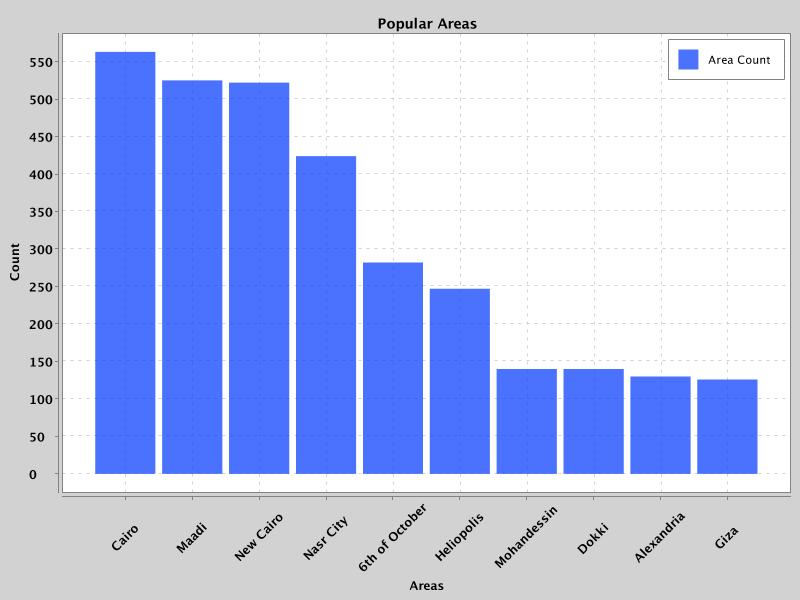
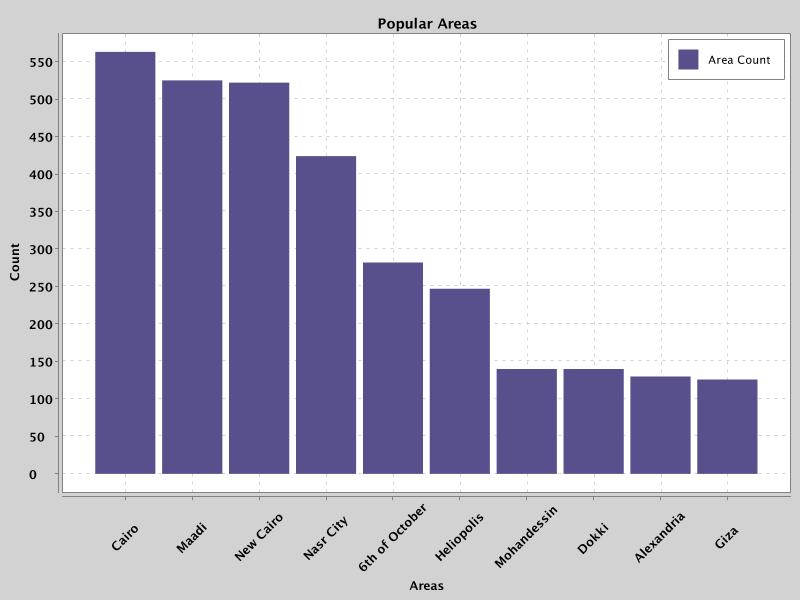
✅ Final touches for better user experience

Changed region(s): [[0.0938, 0.06, 0.9688, 0.81], [0.8438, 0.06, 0.875, 0.12]]

diff --git a/src/main/resources/templates/popular-areas.html b/src/main/resources/templates/popular-areas.html
@@ -18,25 +18,26 @@
 <body>
 
 <div class="limiter">
-    <div class="py-3 row">
-        <div class="h6 col-md-5 ">
+    <div class="py-3">
+        <div class="h6  ">
             <a href="/" class="text-dark text-left p-3 m-3">
                 <img src="http://localhost:8080/images/arrow-left-solid.svg" width="15" class="mr-2"/>
                 Go back
             </a>
         </div>
-        <div class="col-md-7">
+        <div class="text-center">
             <p class="text-dark h5"> Popular areas</p>
+            <small class="text-muted">Task #8</small>
         </div>
     </div>
 
     <div class="container-table100 text-center">
         <div class="wrap-table100">
             <div class="table100">
-                <table>
+                <table style="width: 400px !important; text-align: center">
                     <thead>
                     <tr class="table100-head">
-                        <th class="column9">Attribute</th>
+                        <th class="column9" style="width: 180px !important;">Attribute</th>
                         <th class="column1">Count</th>
                     </tr>
                     </thead>

diff --git a/src/main/resources/templates/jobs-barchart.html b/src/main/resources/templates/jobs-barchart.html
@@ -18,22 +18,24 @@
 <body>
 
 <div class="limiter">
-    <div class="py-3 row">
-        <div class="h6 col-md-5 ">
+    <div class="py-3">
+        <div class="h6 ">
             <a href="/" class="text-dark text-left p-3 m-3">
                 <img src="http://localhost:8080/images/arrow-left-solid.svg" width="15" class="mr-2"/>
                 Go back
             </a>
         </div>
-        <div class="col-md-7">
+        <div class="text-center">
             <p class="text-dark h5"> Jobs barchart</p>
+            <small class="text-muted">Task #7</small>
+
         </div>
     </div>
 
     <div class="container-table100 text-center">
         <div class="wrap-table100">
             <div class="table100">
-               <img src="http://localhost:8080/images/popularJobsBar.jpg"/>
+               <img src="http://localhost:8080/images/popularJobsBar.jpg" class="img-fluid shadow-sm"/>
             </div>
         </div>
     </div>

diff --git a/src/main/resources/templates/areas-barchart.html b/src/main/resources/templates/areas-barchart.html
@@ -18,15 +18,17 @@
 <body>
 
 <div class="limiter">
-    <div class="py-3 row">
-        <div class="h6 col-md-5 ">
+    <div class="py-3 ">
+        <div class="h6  ">
             <a href="/" class="text-dark text-left p-3 m-3">
                 <img src="http://localhost:8080/images/arrow-left-solid.svg" width="15" class="mr-2"/>
                 Go back
             </a>
         </div>
-        <div class="col-md-7">
+        <div class="text-center">
             <p class="text-dark h5"> Areas barchart</p>
+            <small class="text-muted">Task #9</small>
+
         </div>
     </div>
 

diff --git a/src/main/resources/templates/summary.html b/src/main/resources/templates/summary.html
@@ -31,7 +31,7 @@
         </div>
     </div>
 
-    <div class="container-table100 text-center">
+    <div class="container-table100 text-center" style="align-items: unset !important;">
         <div class="wrap-table100">
             <div class="table100">
                 <table id="summary-table">

diff --git a/src/main/java/com/example/wuzzufdataanalysis/controllers/RowEntityController.java b/src/main/java/com/example/wuzzufdataanalysis/controllers/RowEntityController.java
@@ -79,7 +79,9 @@ public class RowEntityController {
 
     @RequestMapping("/popular-areas")
     public String getPopularAreas(Model model){
-        model.addAttribute("rows", areasEntityRepository.findAll());
+        Pageable limit = PageRequest.of(0,30);
+
+        model.addAttribute("rows", areasEntityRepository.findAll(limit));
         return "popular-areas";
     }
 
@@ -98,8 +100,11 @@ public class RowEntityController {
         CategoryChart chart = new CategoryChartBuilder().width(800).height(600).title("Popular Job Titles").xAxisTitle("Titles").yAxisTitle("Count").build();
 
         // Customize Chart
+        chart.getStyler().setSeriesColors(new Color[]{new Color(0,63,92), new Color(24,43,124)});
+
         chart.getStyler().setLegendPosition(Styler.LegendPosition.InsideNE);
         chart.getStyler().setXAxisLabelRotation(45);
+
 
         List<String> titlesList = new ArrayList<String>();
         final int[] i = {0};
@@ -133,6 +138,8 @@ public class RowEntityController {
         // Customize Chart
         chart.getStyler().setLegendPosition(Styler.LegendPosition.InsideNE);
         chart.getStyler().setXAxisLabelRotation(45);
+        chart.getStyler().setSeriesColors(new Color[]{new Color(88,80,141), new Color(24,43,124)});
+
 
         List<String> titlesList = new ArrayList<String>();
         final int[] i = {0};

diff --git a/src/main/java/com/example/wuzzufdataanalysis/repositories/AreasEntityRepository.java b/src/main/java/com/example/wuzzufdataanalysis/repositories/AreasEntityRepository.java
@@ -1,7 +1,9 @@
 package com.example.wuzzufdataanalysis.repositories;
 
 import com.example.wuzzufdataanalysis.model.AreasEntity;
+import org.springframework.data.domain.Pageable;
 import org.springframework.data.repository.CrudRepository;
 
 public interface AreasEntityRepository extends CrudRepository<AreasEntity, Long> {
+    Object findAll(Pageable limit);
 }
